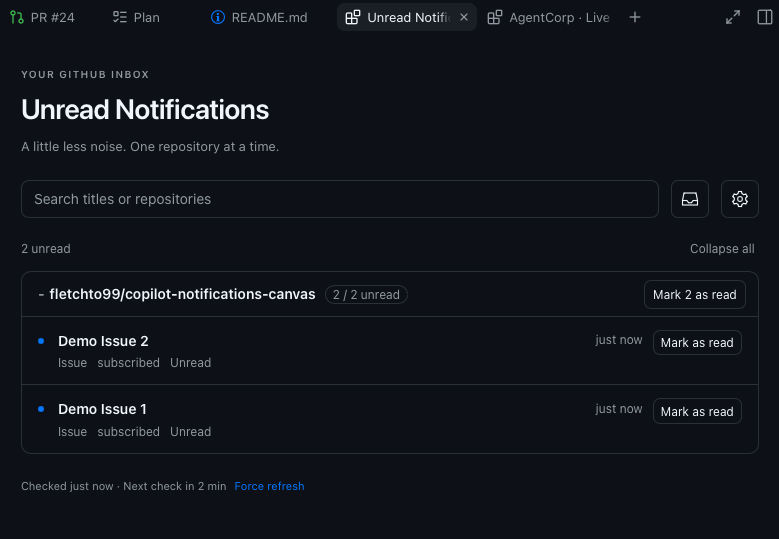
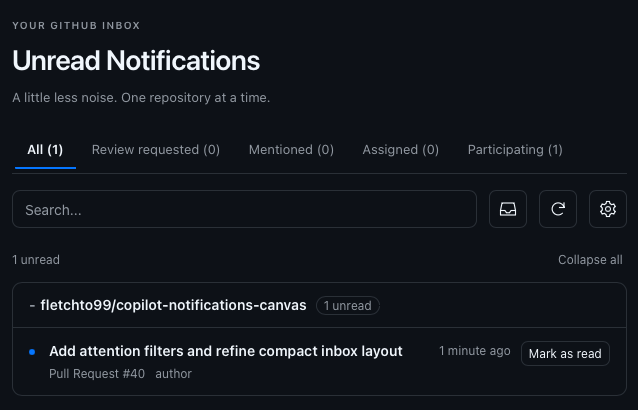
Update README screenshot for attention filters
Copilot-Session: c4862ec3-6e5a-4e89-8ae6-354e1263bcfe

diff --git a/README.md b/README.md
@@ -4,7 +4,7 @@ Unread GitHub notifications in the GitHub Copilot app, grouped by repository or
 date, or shown as a single newest-first list. Search, mark rows or repositories
 as read, and opt into desktop notifications or auto-open.
 
-![Unread Notifications canvas showing a repository group, search, settings, and mark-as-read controls](docs/images/unread-notifications.png)
+![Unread Notifications canvas showing attention tabs with counts, search, settings, and a notification with a mark-as-read action](docs/images/unread-notifications.png)
 
 ## Prerequisites
 
